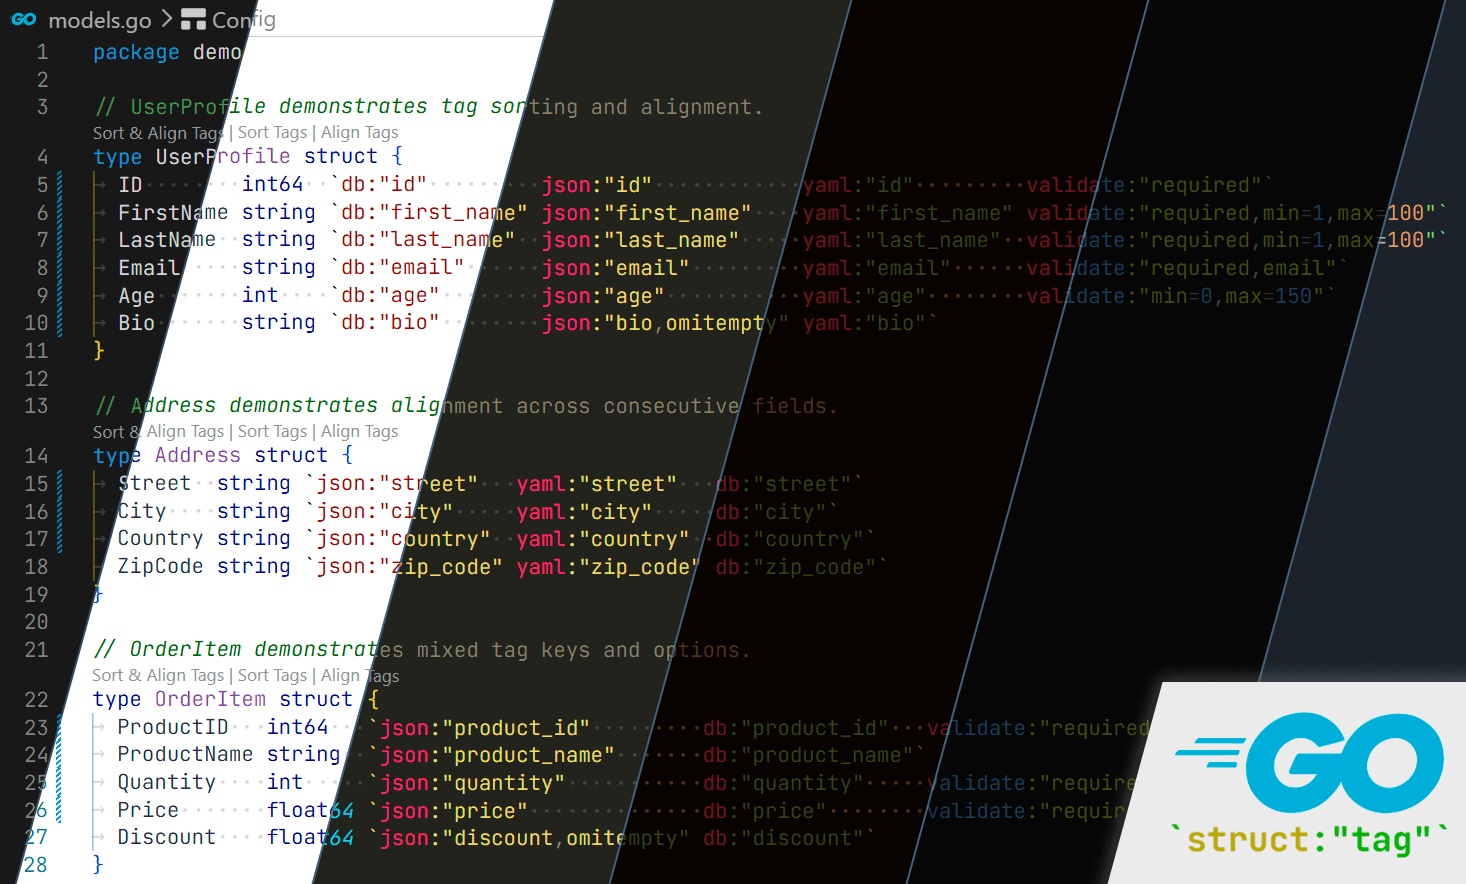
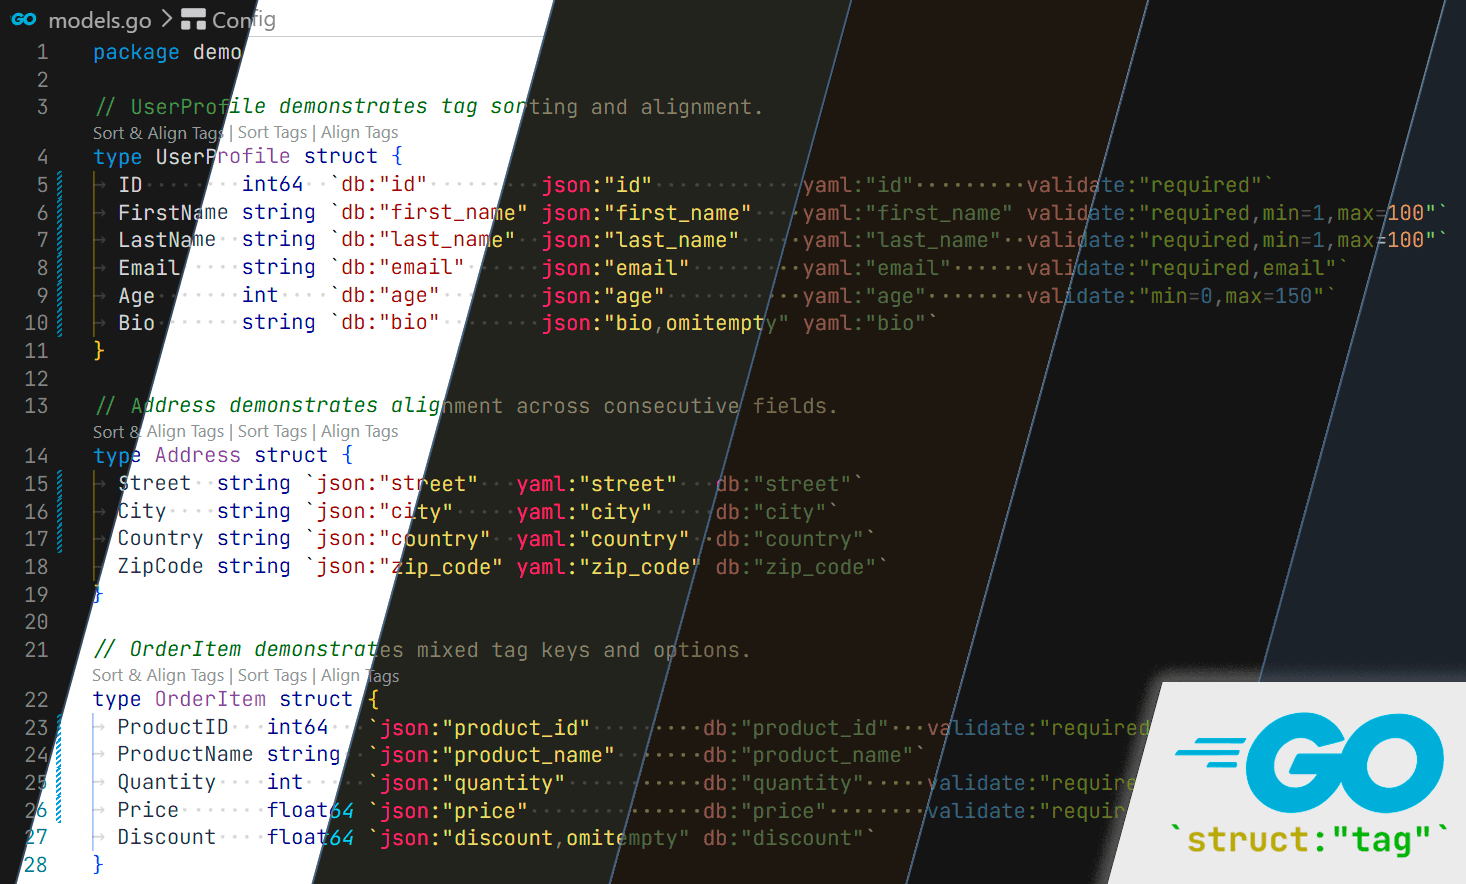
feat: added smart sort mode and align threshold

diff --git a/src/operations.ts b/src/operations.ts
@@ -2,8 +2,14 @@ import { GoStruct, StructField, TagPair } from './parser'
 
 /** Configuration for the sort operation, read from workspace settings on each invocation. */
 export interface SortOptions {
-  /** Determines how the canonical key order is derived when no priority applies. */
-  mode: 'first-field' | 'alphabetical'
+  /**
+   * Determines how the canonical key order is derived when no priority applies.
+   * - `smart` — sorts by tag frequency (desc) then average rendered width (asc),
+   *   so common short tags come first and long/rare tags fall to the end.
+   * - `first-field` — order is derived from the first struct field.
+   * - `alphabetical` — all keys sorted A–Z.
+   */
+  mode: 'smart' | 'first-field' | 'alphabetical'
   /** Tag keys that always sort first, in the order listed. Keys absent from the struct are ignored. */
   priority: string[]
 }
@@ -36,7 +42,7 @@ export function buildCanonicalOrder(fields: StructField[]): string[] {
  * Priority keys that are not present in the struct are silently ignored.
  *
  * @param fields - All tagged fields of a struct.
- * @param opts - Sort mode (`first-field` or `alphabetical`) and explicit priority keys.
+ * @param opts - Sort mode and explicit priority keys.
  * @returns Ordered list of tag keys: priority keys first, then the rest per the chosen mode.
  */
 export function buildSortOrder(
@@ -56,11 +62,53 @@ export function buildSortOrder(
   let remaining: string[]
   if (opts.mode === 'alphabetical') {
     remaining = [...allKeys].filter((k) => !prioritySet.has(k)).sort()
+  } else if (opts.mode === 'smart') {
+    remaining = buildSmartOrder(fields).filter((k) => !prioritySet.has(k))
   } else {
     remaining = buildCanonicalOrder(fields).filter((k) => !prioritySet.has(k))
   }
 
   return [...priorityKeys, ...remaining]
+}
+
+/**
+ * Derives a tag key order optimised for readability of mixed-tag structs.
+ * Keys are ranked by frequency across all fields (descending) and then by
+ * average rendered width (ascending), so common short tags come first and
+ * long or rare tags — such as `description` — fall naturally to the end.
+ *
+ * @param fields - All tagged fields of the struct.
+ * @returns Keys sorted from most-frequent/shortest to least-frequent/longest.
+ */
+function buildSmartOrder(fields: StructField[]): string[] {
+  if (fields.length === 0) {
+    return []
+  }
+
+  const count = new Map<string, number>()
+  const totalWidth = new Map<string, number>()
+
+  for (const field of fields) {
+    for (const tag of field.tags) {
+      count.set(tag.key, (count.get(tag.key) ?? 0) + 1)
+      totalWidth.set(
+        tag.key,
+        (totalWidth.get(tag.key) ?? 0) + `${tag.key}:"${tag.value}"`.length,
+      )
+    }
+  }
+
+  const n = fields.length
+  return [...count.keys()].sort((a, b) => {
+    const fa = count.get(a)! / n
+    const fb = count.get(b)! / n
+    if (fa !== fb) {
+      return fb - fa
+    }
+    const avgA = totalWidth.get(a)! / count.get(a)!
+    const avgB = totalWidth.get(b)! / count.get(b)!
+    return avgA - avgB
+  })
 }
 
 /**
@@ -153,19 +201,48 @@ function hasBlankLine(
 }
 
 /**
- * Computes padded tag strings for a group of consecutive fields so that each tag column aligns vertically.
- * The last tag on each line is never padded.
+ * Computes padded tag strings for a group of consecutive fields so that columns align vertically.
+ *
+ * Tags are split into two classes based on how often they appear across the group:
+ * - **Common** (frequency ≥ `columnThreshold`): get a dedicated column. Missing cells are
+ *   filled with blank space so subsequent common columns stay aligned. The last common column
+ *   a field has is never padded.
+ * - **Rare** (frequency < `columnThreshold`): appended after the last common column without
+ *   column alignment, avoiding large gaps caused by tags that only a few fields carry.
  *
  * @param group - Two or more consecutive struct fields to align.
+ * @param columnThreshold - Fraction of fields [0–1] that must have a tag for it to get a
+ *   dedicated column. Defaults to `0.5`.
  * @returns A map of line number to the new raw tag content (without surrounding backticks).
  */
-export function alignGroup(group: StructField[]): Map<number, string> {
-  // Build ordered list of all keys in canonical order for this group
+export function alignGroup(
+  group: StructField[],
+  columnThreshold = 0.5,
+): Map<number, string> {
   const order = buildCanonicalOrder(group)
+  const n = group.length
 
-  // For each key position, find the max rendered length of key:"value"
+  // Classify each key by frequency within the group
+  const freq = new Map<string, number>()
+  for (const key of order) {
+    let count = 0
+    for (const field of group) {
+      if (field.tags.some((t) => t.key === key)) {
+        count++
+      }
+    }
+    freq.set(key, count / n)
+  }
+
+  const rareKeySet = new Set(
+    order.filter((k) => (freq.get(k) ?? 0) <= columnThreshold),
+  )
+  const orderSet = new Set(order)
+
+  // Max rendered width for each common key
   const maxLen = new Map<string, number>()
   for (const key of order) {
+    if (rareKeySet.has(key)) continue
     let max = 0
     for (const field of group) {
       const tag = field.tags.find((t) => t.key === key)
@@ -179,35 +256,63 @@ export function alignGroup(group: StructField[]): Map<number, string> {
     maxLen.set(key, max)
   }
 
+  // Within the group, reorder common columns by (frequency DESC, maxLen ASC) so that
+  // narrow columns always precede wide ones at equal frequency — preventing a wide tag
+  // like `description` from being padded just to align a narrow trailing tag like `short`.
+  const commonKeys = order
+    .filter((k) => !rareKeySet.has(k))
+    .sort((a, b) => {
+      const fd = (freq.get(b) ?? 0) - (freq.get(a) ?? 0)
+      if (fd !== 0) return fd
+      return (maxLen.get(a) ?? 0) - (maxLen.get(b) ?? 0)
+    })
+
   const result = new Map<number, string>()
 
   for (const field of group) {
     const parts: string[] = []
 
-    for (let i = 0; i < order.length; i++) {
-      const key = order[i]
-      const tag = field.tags.find((t) => t.key === key)
-
-      if (!tag) {
-        continue
-      }
-
-      const rendered = `${tag.key}:"${tag.value}"`
-      const isLast =
-        i === order.length - 1 ||
-        !order.slice(i + 1).some((k) => field.tags.some((t) => t.key === k))
-
-      if (isLast) {
-        parts.push(rendered)
-      } else {
-        const max = maxLen.get(key) ?? rendered.length
-        parts.push(rendered.padEnd(max))
+    // Determine the last common key this field has, to know where padding stops
+    let lastCommonKey: string | undefined
+    for (let i = commonKeys.length - 1; i >= 0; i--) {
+      if (field.tags.some((t) => t.key === commonKeys[i])) {
+        lastCommonKey = commonKeys[i]
+        break
       }
     }
 
-    // Also append any tags not in canonical order (unknown keys)
+    if (lastCommonKey !== undefined) {
+      const lastCommonIdx = commonKeys.indexOf(lastCommonKey)
+
+      for (let i = 0; i < commonKeys.length; i++) {
+        const key = commonKeys[i]
+        const tag = field.tags.find((t) => t.key === key)
+
+        if (tag) {
+          const rendered = `${tag.key}:"${tag.value}"`
+          if (key === lastCommonKey) {
+            parts.push(rendered) // last column for this field — no padding
+          } else {
+            parts.push(rendered.padEnd(maxLen.get(key) ?? rendered.length))
+          }
+        } else if (i < lastCommonIdx) {
+          // Empty slot: keep this column's width so subsequent columns stay aligned
+          parts.push(' '.repeat(maxLen.get(key) ?? 0))
+        }
+        // Keys beyond lastCommonIdx that the field doesn't have are simply skipped
+      }
+    }
+
+    // Append rare keys in sorted order, no column alignment
     for (const tag of field.tags) {
-      if (!order.includes(tag.key)) {
+      if (rareKeySet.has(tag.key)) {
+        parts.push(`${tag.key}:"${tag.value}"`)
+      }
+    }
+
+    // Append unknown keys (not seen anywhere in the group)
+    for (const tag of field.tags) {
+      if (!orderSet.has(tag.key)) {
         parts.push(`${tag.key}:"${tag.value}"`)
       }
     }

diff --git a/src/engine.ts b/src/engine.ts
@@ -18,9 +18,15 @@ export interface StructSpan {
 export function readSortOptions(): SortOptions {
   const cfg = vscode.workspace.getConfiguration('goStructTags')
   return {
-    mode: cfg.get<'first-field' | 'alphabetical'>('sortMode') ?? 'first-field',
+    mode:
+      cfg.get<'smart' | 'first-field' | 'alphabetical'>('sortMode') ?? 'smart',
     priority: cfg.get<string[]>('sortPriority') ?? [],
   }
+}
+
+export function readAlignColumnThreshold(): number {
+  const cfg = vscode.workspace.getConfiguration('goStructTags')
+  return cfg.get<number>('alignColumnThreshold') ?? 0.5
 }
 
 export function findStructAtLine(
@@ -51,10 +57,11 @@ export function buildEdits(
 
   const lines = document.getText().split('\n')
   const opts = readSortOptions()
+  const columnThreshold = readAlignColumnThreshold()
   const edits: vscode.TextEdit[] = []
 
   for (const struct of structs) {
-    const byLine = projectTagsByLine(struct, mode, lines, opts)
+    const byLine = projectTagsByLine(struct, mode, lines, opts, columnThreshold)
     for (const field of struct.fields) {
       const next = byLine.get(field.line)
       if (!next) {
@@ -81,6 +88,7 @@ function projectTagsByLine(
   mode: TransformMode,
   lines: string[],
   opts: SortOptions,
+  columnThreshold: number,
 ): Map<number, string> {
   const result = new Map<number, string>()
   if (struct.fields.length === 0) {
@@ -102,7 +110,7 @@ function projectTagsByLine(
   const projectedStruct: GoStruct = { ...struct, fields: projectedFields }
   const alignedByLine = new Map<number, string>()
   for (const group of findAlignmentGroups(projectedStruct, lines)) {
-    for (const [line, raw] of alignGroup(group)) {
+    for (const [line, raw] of alignGroup(group, columnThreshold)) {
       alignedByLine.set(line, raw)
     }
   }

diff --git a/src/highlight.ts b/src/highlight.ts
@@ -17,7 +17,7 @@ interface TagRanges {
 
 const reMatchLine = /(`[^`]+`)/
 const reTag = /(\w[\w-]*):"([^"]*)"/g
-const reOption = /[^,=]+(=)([^,]+)/g
+const reOption = /\w[\w-]*(=)([^,]+)/g
 
 export function addHighlight(context: vscode.ExtensionContext): void {
   let { types, update } = buildDecorator(context)

diff --git a/demo/models.go b/demo/models.go
@@ -50,6 +50,21 @@ type GormModel struct {
 	UpdatedAt string `gorm:"autoUpdateTime" json:"updated_at"`
 }
 
+// ServerOptions demonstrates smart sort and alignment with mixed CLI flag tags.
+// Rare tags (default, choices, secret, required) are appended without gaps.
+type ServerOptions struct {
+	ListenAddr string `env:"LISTEN_ADDR"   description:"address to listen on"              long:"listen-addr"  short:"l"  default:"0.0.0.0:8080"`
+	TLSCert    string `description:"path to TLS certificate file"   long:"tls-cert"   env:"TLS_CERT"   required:"false"`
+	TLSKey     string `   env:"TLS_KEY"   long:"tls-key"   description:"path to TLS private key file"   required:"false"   `
+	AuthToken  string `long:"auth-token" description:"bearer token for API authentication" env:"AUTH_TOKEN" secret:"true"`
+	LogLevel   string `  default:"info"   description:"logging verbosity level"   env:"LOG_LEVEL"   long:"log-level"  choices:"debug;info;warn;error"  `
+	Timeout    int    `description:"request timeout in seconds"  env:"TIMEOUT"  long:"timeout"  default:"30"  validate-min:"1"`
+	Workers    int    `env:"WORKERS"  description:"number of worker goroutines"  long:"workers"  default:"4"  validate-min:"1"`
+	MaxConns   int    `description:"maximum concurrent connections"  default:"100"  long:"max-conns"  env:"MAX_CONNS"  validate-min:"1"`
+	BaseURL    string `long:"base-url"  env:"BASE_URL"  description:"public base URL of the service"`
+	Debug      bool   `short:"d" env:"DEBUG" long:"debug" description:"enable debug output"`
+}
+
 // Nested demonstrates a struct with an embedded type (should be skipped for alignment).
 type Nested struct {
 	Address

diff --git a/CHANGELOG.md b/CHANGELOG.md
@@ -13,6 +13,24 @@ and this project adheres to [Semantic Versioning][].
 ### Removed
 -->
 
+## [0.2.0][] - 2026-05-13
+
+### Added
+
+* Smart sort mode ranks tag keys by frequency then by average rendered width.
+* `goStructTags.alignColumnThreshold` setting (default `0.5`).
+
+### Changed
+
+* `goStructTags.sortMode` now `smart` by default.
+
+### Fixed
+
+* Syntax highlighting: `=` characters inside plain tag values
+  were incorrectly highlighted as option separators.
+
+[0.2.0]: https://github.com/WoozyMasta/go-struct-tags-manager/compare/0.1.0...0.2.0
+
 ## [0.1.0][] - 2026-05-12
 
 ### Added
